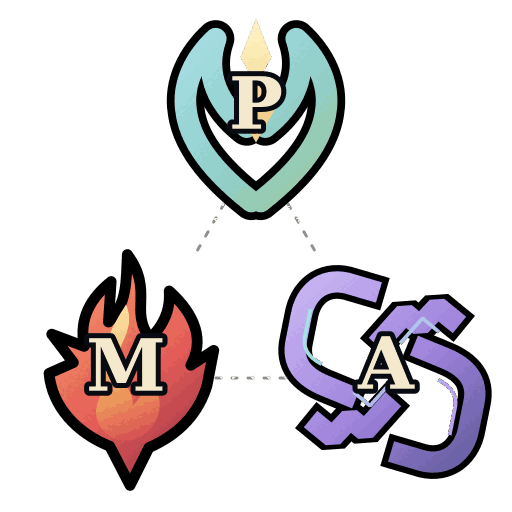
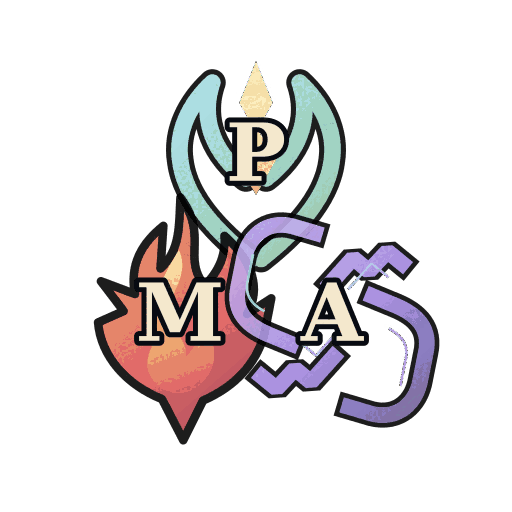
Merge the realm crests into a compact PMA mark

diff --git a/docs/qa/REALM_SYMBOLS_20261022.md b/docs/qa/REALM_SYMBOLS_20261022.md
@@ -1,11 +1,11 @@
 # Símbolos dos reinos e ícone dark do jogo
 
-Os três emblemas dos mundos formam o ícone do jogo em uma composição triangular: Paraíso no topo com a letra P, Inferno embaixo à esquerda com M e Limbo embaixo à direita com A. As letras ficam centradas sobre os brasões; conexões douradas tracejadas e discretas unem os vértices. O desenho reaproveita os vetores próprios de cada reino, preserva suas cores e contornos pretos e não adiciona placas ou fundo. O SVG e os PNGs transparentes aparecem no cabeçalho e nos ícones de instalação.
+Os três emblemas dos mundos formam o ícone do jogo em uma composição triangular compacta e sobreposta: Paraíso no topo com a letra P, Inferno embaixo à esquerda com M e Limbo embaixo à direita com A. As letras ficam centradas sobre os brasões; as formas se cruzam no centro para unir as cores e silhuetas dos reinos. O desenho reaproveita os vetores próprios de cada mundo e mantém o fundo transparente. O SVG e os PNGs aparecem no cabeçalho e nos ícones de instalação.
 
 ## Verificação
 
 - Os emblemas dos mundos mantêm o fundo transparente e incluem contorno preto nos motivos principais.
 - O ícone SVG não tem placa ou fundo; os PNGs exportados têm transparência e 192 × 192 e 512 × 512.
-- Os três brasões e as letras P, M e A aparecem nos vértices e no centro de cada símbolo, respectivamente.
+- Os três brasões se sobrepõem em uma composição triangular; P, M e A ficam no topo, embaixo à esquerda e embaixo à direita.
 - Os PNGs foram decodificados e os arquivos aparecem nos caminhos usados pelo cabeçalho, favicon, manifesto e cartões dos reinos.
 - `node --test --test-skip-pattern='o trio inicial tem retrato|os sessenta e sete personagens seguintes'`: 134 aprovados. Dois testes do acervo antigo foram omitidos porque as imagens pré-existentes correspondentes não estão nesta cópia parcial.
